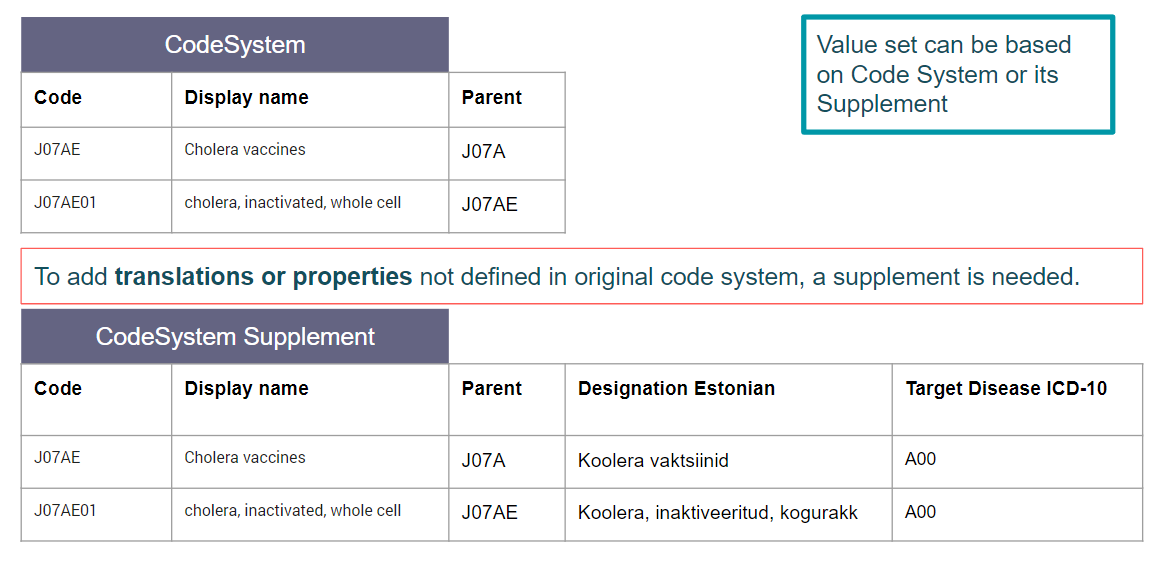
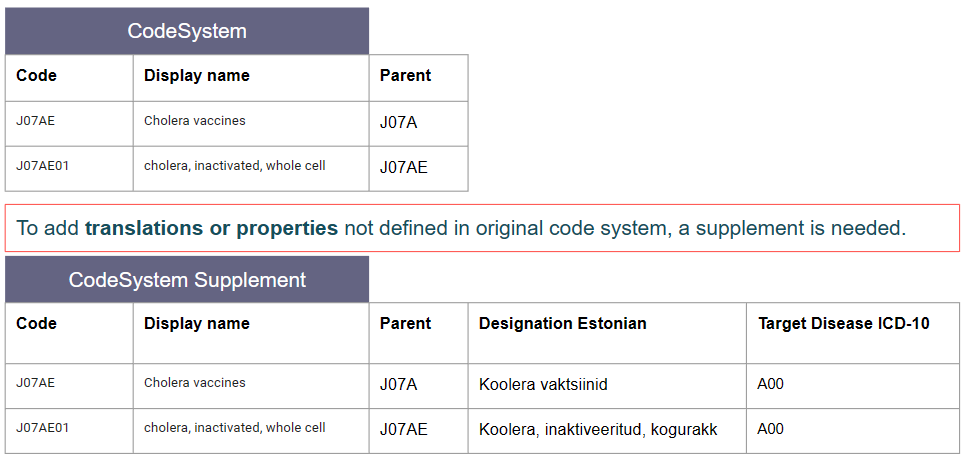
general guidance on resources

Changed region(s): [[0.0, 0.0, 0.9928, 1.0], [0.6825, 0.0, 0.9928, 0.243]]

diff --git a/input/pagecontent/migration.md b/input/pagecontent/migration.md
@@ -1,7 +1,7 @@
 
 ### Migration | Seos publitseerimiskeskusega
 
-TEHIK terminology server aims to re-publish all the terminology assets that have been published in https://pub.e-tervis.ee/classifications (no public international access).
+TEHIK terminology server aims to re-publish all the terminology assets that have been published in [TEHIK's old publication centre](https://pub.e-tervis.ee/classifications) (no public international access).
 
 #### General principles
 
@@ -11,19 +11,19 @@ Before FHIR, the distinction between code system and value set was much more flu
 <img src="migration.png" alt="alt text" width="700"/>
 <br clear="all"/>
 
-**Hierarchy**
+**Hierarchy**  
 For expressing hierarchy in a code system, property _parent_ is preferred over concepts-in-concepts structure. While terminology server are expected to handle both approaches, using property _parent_ allows us to handle polyhierarchy and monohierarchy the same way. 
 Property _parent_ kind of approach is closer to the flat table view which has been used for publishing terminology until now. Also, having hierarchy expressed as a property will allow users to use this property in value set expansion.
 
 Currently every code list includes columns: Parent code (Vanem_kood) and Hierarchy level (Hierarhia_aste). Column 'Hierachy level' will not be migrated, as it is obsolete. Column 'Parent code' will be migrated as property _parent_ in CodeSystem, and _groupedBy_ in CodeSystem supplement, which is contained in the value set. See more about hierarchy in value set below.
 
-**Effective dates and statuses of value set members**
+**Effective dates and statuses of value set members**  
 
 Status of value set members will not be migrated, because only active value set members will be published in every value set version. It is possible to add status ['deprecated'](http://hl7.org/fhir/extensions/StructureDefinition-valueset-deprecated.html) to a value set member, but it serves as a warning for future changes.
 
 Currently, every locally defined code list has three columns: Valid from (Kehtivuse_alguse_kpv), Valid until (Kehtivuse_lõpu_kpv), and Last updated (Viimane_muudatus_kpv). These columns will not be migrated as the content of a ValueSet. Valid from and Valid until dates will be migrated as effectivePeriod. 'Last updated' column will have no significant meaning after migration, and it will not be migrated. 
 
-#### Scope of migration
+#### Scope of migration  
 
 The focus of the first migration:
 - terminology assets currently published and maintained by TEHIK,
@@ -39,7 +39,7 @@ Lower priority activities:
 
 Creating concept maps between all the versions is a manual effort and will take a longer period. Please contact us about special needs of your project.
 
-#### Version handling
+#### Version handling  
 
 An example ([Rhd kuuluvus](https://pub.e-tervis.ee/classifications/RhD%20kuuluvus))  
 
@@ -77,7 +77,7 @@ An example ([Rhd kuuluvus](https://pub.e-tervis.ee/classifications/RhD%20kuuluvu
 |280416009|selguseta|selguseta|Indeterminate result (qualifier value)||0|28.03.2019|||Eesti Laborimeditsiini Ühing|1|Märgitakse, kui labor ei suuda RhD kuuluvust määrata|
 {:.table-bordered .table-sm}
 
-#### Hierarchy in value sets
+#### Hierarchy in value sets  
 
 FHIR does not allow hierarchy in the value set. However, Estonian code lists have always been used not just for validation, but also for interface terminology, which means that hierarchy and grouper concepts have been a norm.
 
@@ -103,30 +103,30 @@ Such situation where the value set subsumption differs from code system subsumpt
 The value set includes these properties as default properties for expansion.  
 
 
-#### CodeSystem exceptions
+#### CodeSystem exceptions  
 
 Large code systems do not follow the common rules of migration. Each of the following code systems is handled individually.
 
-**ICD-10 / RHK-10**
+**ICD-10 / RHK-10**  
 - ICD-10 international version is not published unless requested for a special purpose.
 - ICD-10 Estonian flavour is published as an independent CodeSystem.
 - Unlike current XML-structure, FHIR resource will express hierarchy in property _parent_ and does not use concepts-inside-concepts structure.
 - Descriptions in Estonian, English, and Latin, as well as all comments will be migrated.
 
-**SNOMED CT**
+**SNOMED CT**  
 - Default SNOMED CT version in terminology server is the latest Estonian edition.
 - Estonian edition is based on a certain international edition. This international release is also published in terminology server.
 - SNOMED CT as a full code system is not downloadable or updatable from terminology server.  
 - ValueSets based on SNOMED CT are migrated and published according to the rules for all value sets.
 
-**LOINC**
+**LOINC**  
 - LOINC is not migrated to terminology server in the first phase. 
 
-**NOMESCO Surgical Procedures (NCSP)**
+**NOMESCO Surgical Procedures (NCSP)**  
 - Will be migrated according to general principles. 
 - The latest version with restored hierarchy and Estonian and English descriptions will be used for migration.
 
-**ATC and other medication related terminologies**
+**ATC and other medication related terminologies**  
 - ATC will not be migrated in the first phase. While it is possible to make ATC available, the automatic updating from the source system will need to be put in place before being able to provide up-to-date service.
 - In later stage, Estonian version of ATC will be published with the mapping to international ATC (Estonian version contains local codes for extra granularity).
 - It is planned to update medication vocabularies directly and automatically from Ravimiamet's (State Agency of Medicines) sources.

diff --git a/input/pagecontent/guidance.md b/input/pagecontent/guidance.md
@@ -1,20 +1,52 @@
 
 ### FHIR Resources | FHIR ressursid
 
-#### Concepts are defined in FHIR CodeSystem resource
-<img src="codesystem-supplement.png" alt="alt text" width="900"/>
+#### CodeSystem
+
+CodeSystems carry information about concepts. Well known big code systems are SNOMED CT, LOINC, ATC, ICD-10, etc. 
+But FHIR CodeSystem is not defined by its size. For example, [HL7 Administrative Gender](http://hl7.org/fhir/administrative-gender) has only 4 concepts. 
+
+Read more about [CodeSystem resource](https://hl7.org/fhir/codesystem.html).
+
+In some cases, either for technical reasons or needed by business logic, you need to add information to the base code system. However, this cannot be done unless you are the owner of the original code system. To allow extra information in a code system, a supplement can be used. However, you are only allowed to add information to existing concepts. New codes are not allowed in a supplement.
+
+<img src="codesystem-supplement.png" alt="alt text" width="800"/>
 <br clear="all"/>
 
-#### ValueSet resource takes content from CodeSystem
+CodeSystem supplement does not have its own dedicated resource type. FHIR CodeSystem resource is used for supplements as well. An example of needing a CodeSystem supplement is introducing a custom hierarchy on ValueSet level ([see explanation](migration.html#hierarchy-in-value-sets)).
 
-<img src="codesystem-valueset-relationship.png" alt="alt text" width="900"/>
+#### ValueSet 
+
+ValueSet resource takes its content from CodeSystem(s). There can never be a FHIR ValueSet that defines its own codes without referencing a CodeSystem. Therefore, we often see pairs of CodeSystem and ValueSet, where ValueSet simply includes all concepts from the CodeSystem.
+A ValueSet can include concepts from two or more different CodeSystems. And also, every CodeSystem has a default URI that represents a ValueSets that contains the whole CodeSystem.
+
+<img src="codesystem-valueset-relationship.png" alt="alt text" width="800"/>
 <br clear="all"/>
+
+ValueSets in FHIR are very simplistic and lean in content. Dates of inclusion and exclusion of ValueSet members are provided in resource metadata, not for every member separately. Hierarchy and extra properties are not defined inside the ValueSet, but a ValueSet can be expanded so, that it includes some information about its concepts from the CodeSystem. 
+
+Read more about [ValueSet resource](https://hl7.org/fhir/valueset.html)  
+
 
 #### ConceptMap
-...
+
+ConceptMap resource shows mapping between two ValueSets, and it is by its definition use-case-specific. 
+In some cases, mapping might be done from one CodeSystem to another, but technically it is still defined between two ValueSets that represent the content of the CodeSystem. 
+
+<img src="conceptmap-direction.png" alt="alt text" width="800"/>
+<br clear="all"/>
+
+Mapping between concepts is usually dependant on the context. For example, consider the following three versions of the RhD Finding value set. We see three sets of codes representing the same idea, but using different codes. We can say that these concepts are equivalent **within this ValueSet**. SNOMED CT concept 165747007 _RhD positive (finding)_ would not equal 10828004 _Positive (qualifier value)_ in any other context, because one represents a specific finding while the other represents a very generic qualifier value.
+
+<img src="conceptmap-valueset-versions.png" alt="alt text" width="800"/>
+<br clear="all"/>
+
+Read more about [ConceptMap resource](https://hl7.org/fhir/conceptmap.html)  
+
 
 #### NamingSystem
-...
+
+Read more about [NamingSystem resource](https://hl7.org/fhir/namingsystem.html)  
 
 ### Available content | Avaldatud sisu
 
@@ -27,10 +59,10 @@ Estonian edition, together its underlying international edition, is updated twic
 More information from **snomed@tehik.ee**. 
 
 #### ICD-10 (RHK-10)
-
-#### LOINC
+ICD-10 newest Estonian version (also available at [https://rhk.sm.ee/](https://rhk.sm.ee/)) will be available soon.
 
 #### Health information system value sets
+Please see Migration chapter to learn more about migrating the content of [Publitseerimiskeskus](https://pub.e-tervis.ee/classifications).
 
 #### Medication and prescription related value sets
 
